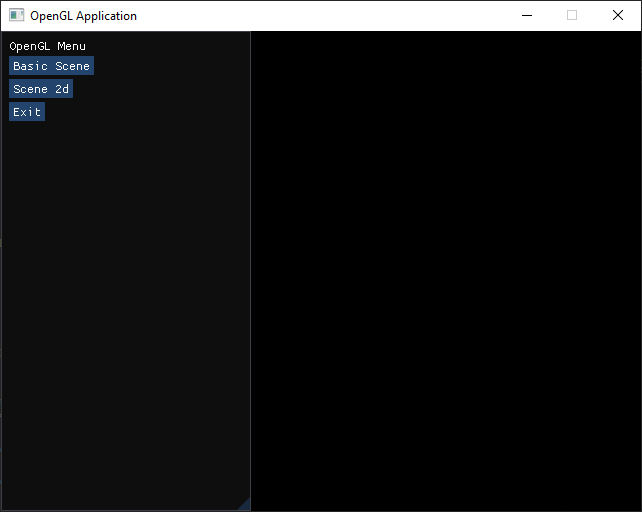
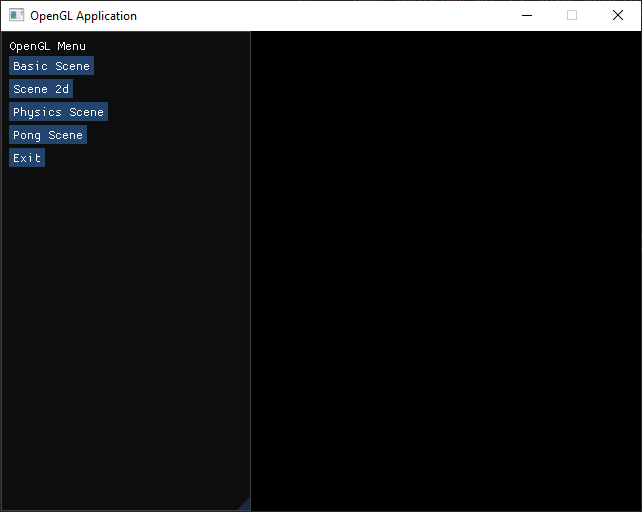
added Physics Scene to README

Changed region(s): [[0.0, 0.1875, 0.1869, 0.3438], [0.9969, 0.4375, 1.0, 0.4688], [0.9969, 0.25, 1.0, 0.2812]]

diff --git a/README.md b/README.md
@@ -40,3 +40,9 @@ Basic Scene is pre-set with 2 Entities with renderable components. The Entities 
 ![alt text](./ScreenShots/2dScene.png)
 
 Scene 2d is testing scene for making a 2d application. It consists of sprites that can be recolored, moved, rotated and scaled.
+
+### Physics Scene
+
+![alt text](./ScreenShots/PhysicsScene.png)
+
+Physics 2d is testing scene for developing and experimenting with physics properties. It consists of 2d entities that can collide with each other.
